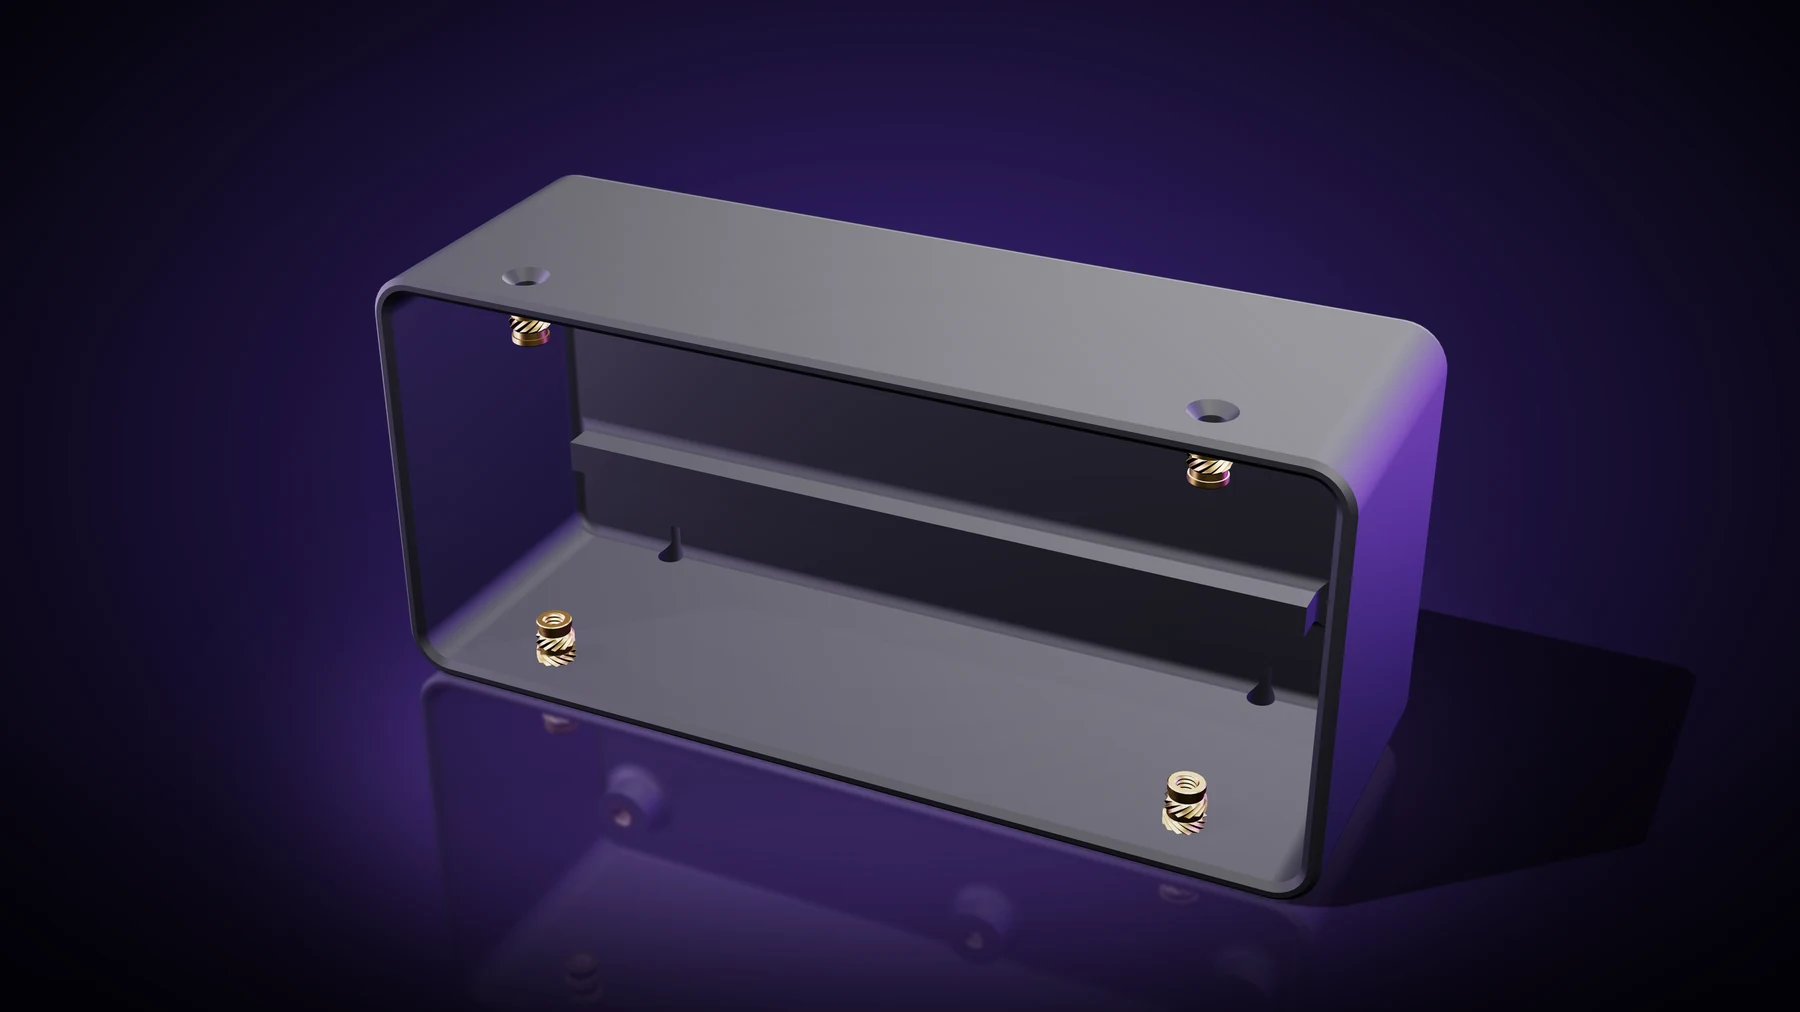
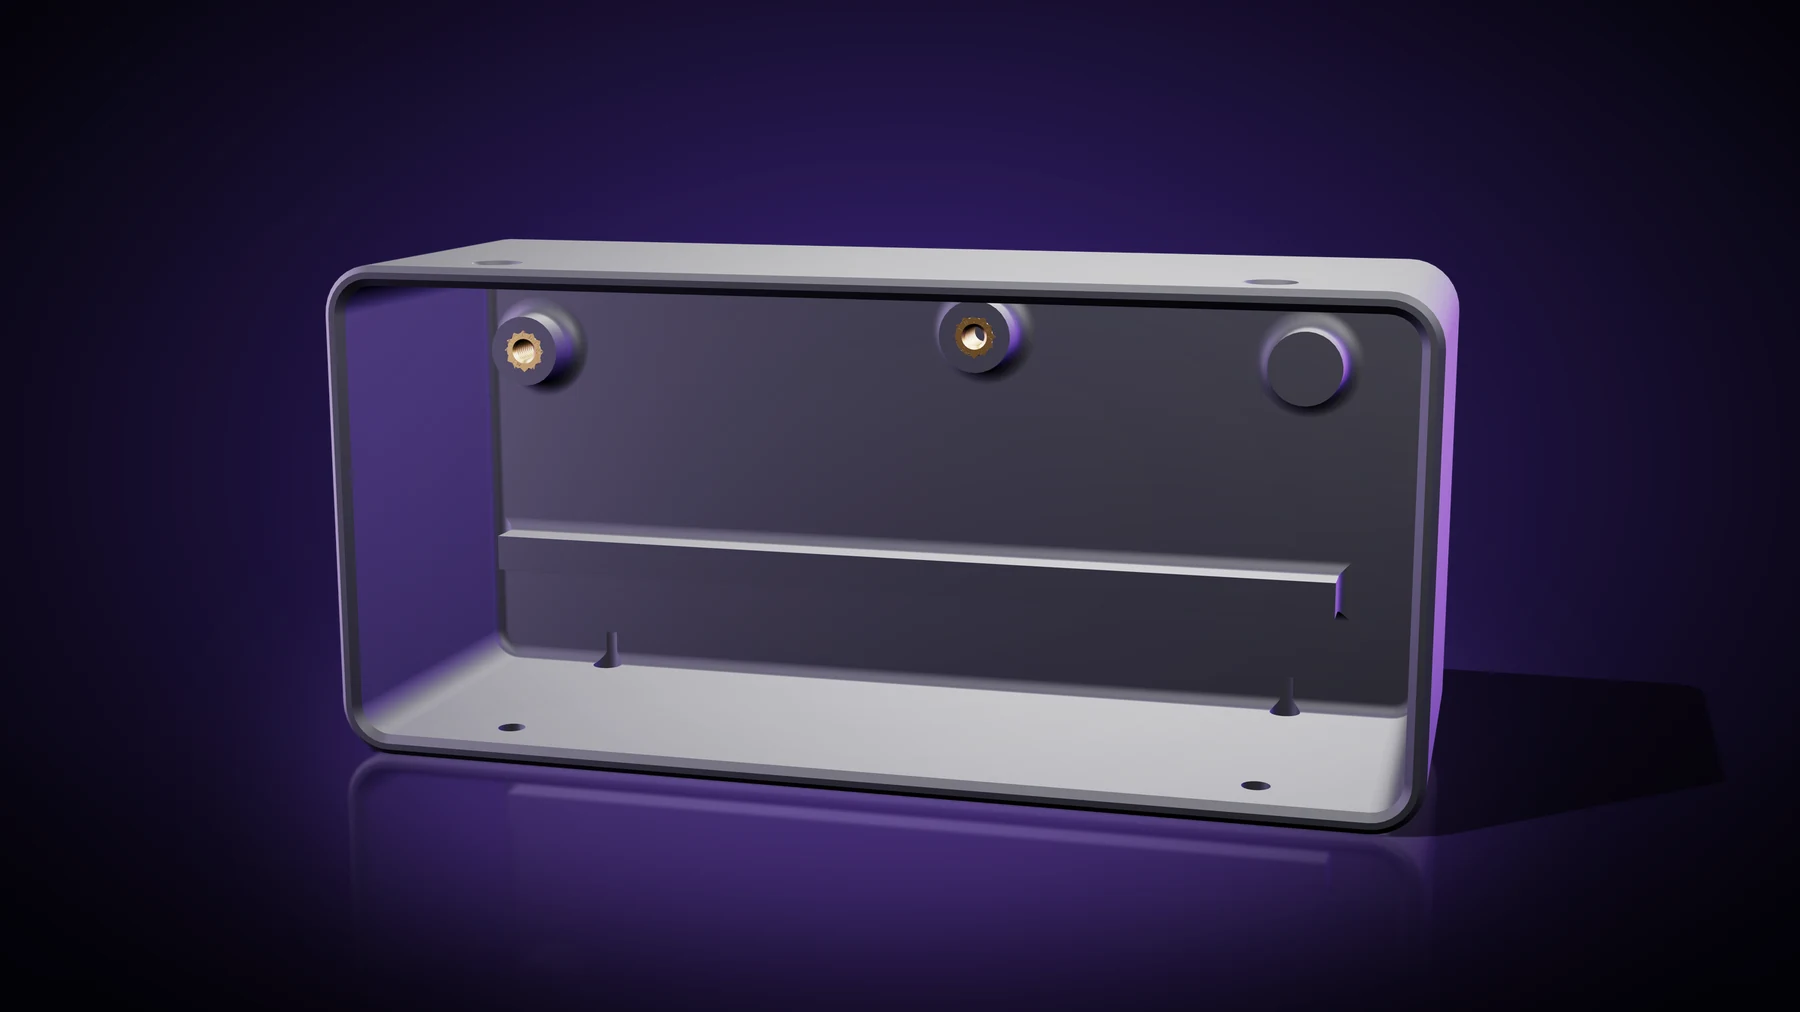
Carousel: empty enclosure seen head-on from the back, only the two board inserts
Claude-Session: https://claude.ai/code/session_017dD8CsxqmC6i7KGPqd1hP3

diff --git a/index.html b/index.html
@@ -226,7 +226,7 @@ footer{padding:40px 0;text-align:center;color:var(--muted);font-size:13px;border
     <div class="track" id="track" tabindex="0" aria-label="Enclosure images">
       <figure class="slide on"><img src="img/slide-1.webp" alt="Closed box, front"><figcaption>Closed: it sits flat on the face of the bar.</figcaption></figure>
       <figure class="slide"><img src="img/slide-2.webp" alt="Back of the box with the two T-nuts" loading="lazy"><figcaption>The back, with the two T-nuts that slide into the slot of the bar.</figcaption></figure>
-      <figure class="slide"><img src="img/slide-3.webp" alt="The empty box seen from the back: the inside of the lid with the four brass inserts and the central rib" loading="lazy"><figcaption>The empty box, from the back: the inside of the lid and its brass inserts.</figcaption></figure>
+      <figure class="slide"><img src="img/slide-3.webp" alt="The empty box seen from the back: the inside of the lid with its two brass inserts and the central rib" loading="lazy"><figcaption>The empty box, from the back: the inside of the lid, with the two brass inserts that take the board's M2 screws.</figcaption></figure>
       <figure class="slide"><img src="img/slide-4.webp" alt="The inside of the box with the back plate removed: the purple board, the CR123A cell in its holder and the connector" loading="lazy"><figcaption>With the electronics: the board with its two M2 screws, the CR123A cell and its holder.</figcaption></figure>
       <figure class="slide"><img src="img/slide-5.webp" alt="The box in clear glass with the board, inserts and screws in place" loading="lazy"><figcaption>The box in clear glass: board, inserts and screws in place.</figcaption></figure>
     </div>
